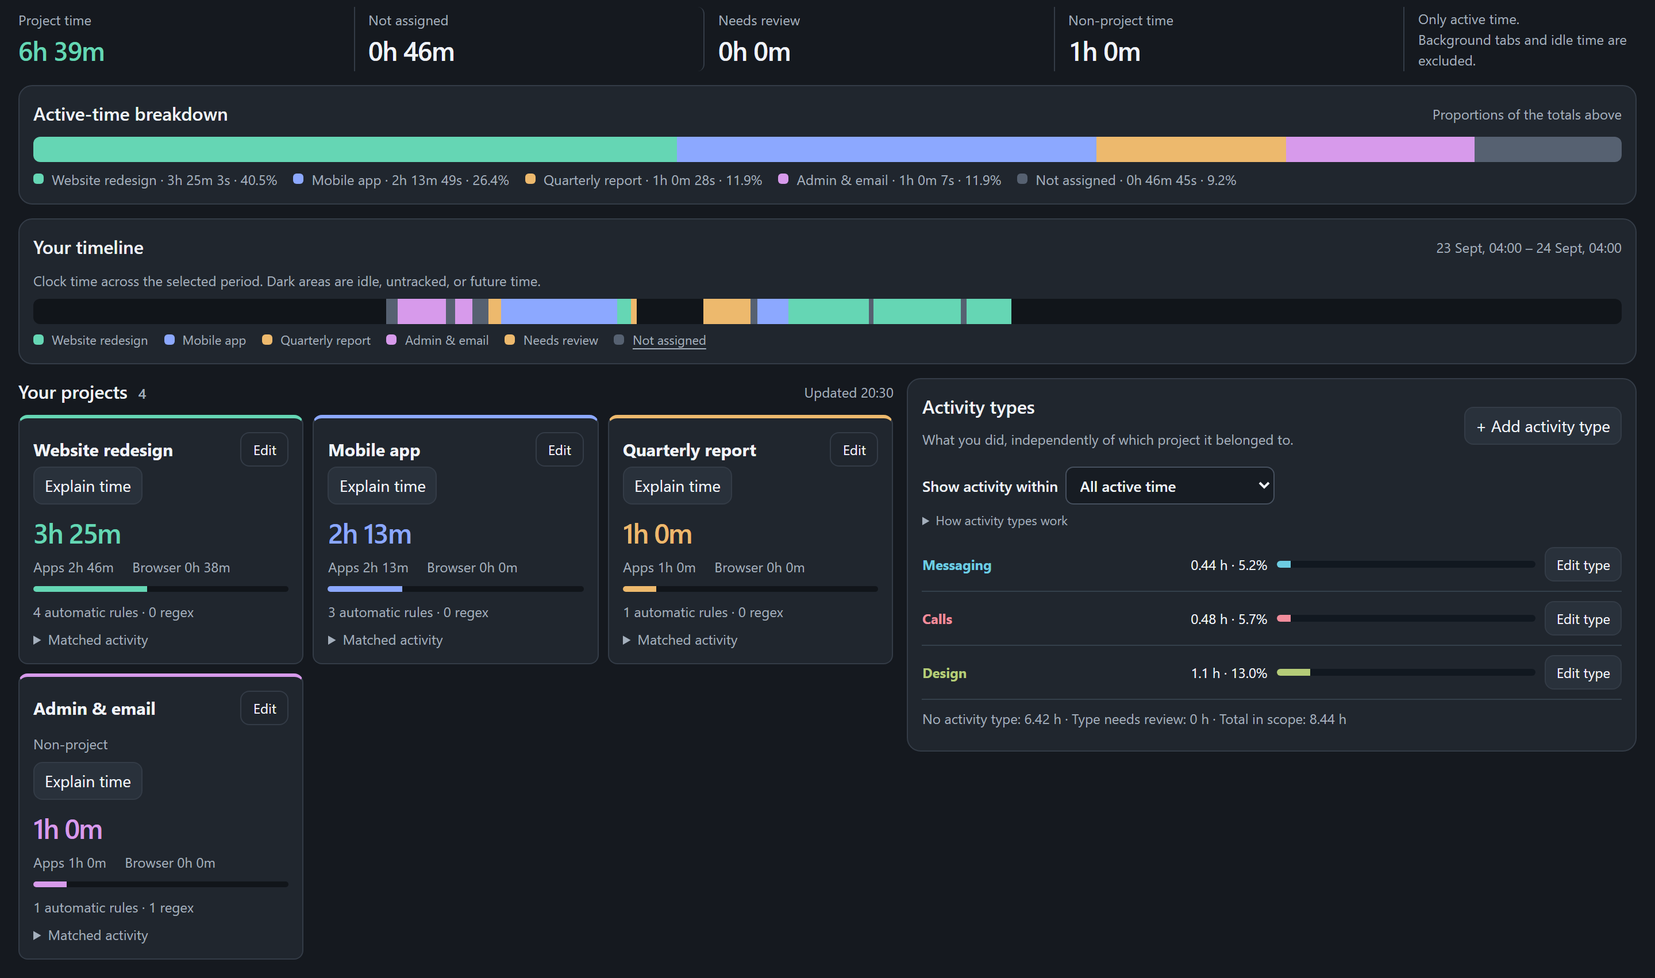
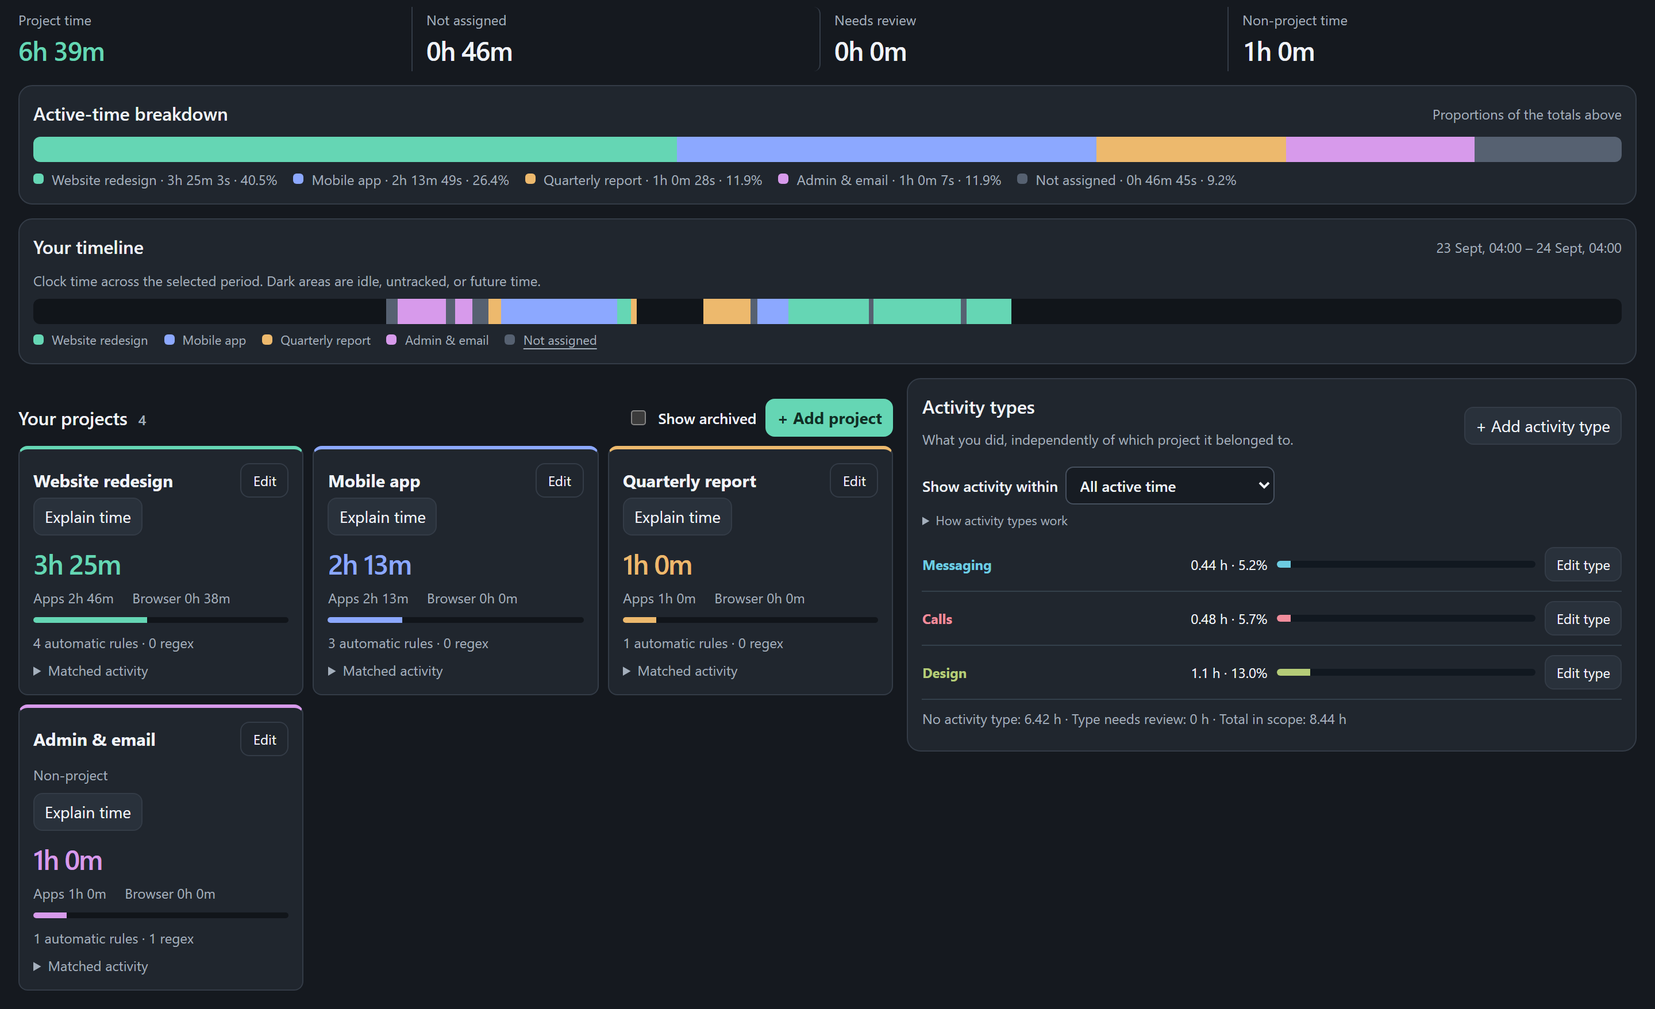
Refresh README images and text for the current interface
Regenerated screenshots show the reorganised page (period bar, report,
history), the chart's layers and report highlight, the editor's project
dates and a new image of the export dialog. The screenshot script reads
settings key by key like the dashboard. Both READMEs describe the report
period and the chart-to-report link, and gain a "Speed" section on using
127.0.0.1 instead of localhost.

diff --git a/README.ru.md b/README.ru.md
@@ -13,20 +13,20 @@ ActivityWatch Projects превращает историю ActivityWatch в по
 
 Я всегда пользовался другим таймтрекером, который более-менее удобно давал возможность сделать фильтр записей за день, чтобы посмотреть, сколько времени было потрачено на проект. В поисках альтернатив мне попадался и ActivityWatch, но на тот момент я не увидел в нём ничего удобного или полезного для себя.
 
-На последнем проекте я решил испробовать какой-нибудь ещё инструмент отслеживания времени и снова наткнулся на ActivityWatch. Как оказалось, из коробки его интерфейс не сильно полезен для подобных целей, но можно настроить свою собственную доску с правилами категоризации и сбора данных!
+На последнем проекте я решил испробовать какой-нибудь ещё инструмент отслеживания времени, так как простая строка поиска на каждый день - крайне неэффективно. И снова наткнулся на ActivityWatch. Как оказалось, из коробки его интерфейс не сильно полезен для подобных целей, но можно настроить свою собственную доску с правилами категоризации и сбора данных.
 
 Что мне очень понравилось:
-- Не нужно вручную заводить какие-то таймеры. Система сама следит за всем, что открывается, и сортирует по правилам, которые я сам и создаю
-- Две системы данных:
+1. Не нужно вручную заводить какие-то таймеры. Система сама следит за всем, что открывается, и сортирует по правилам, которые вы же сами и задали
+2. Две параллельные системы данных:
   - **Проектная** (рабочие задачи). То, что потом можно заносить в таблицу затраченного на работу времени
   - **Активности**. Очень интересно было увидеть, сколько времени я потратил, например, на переписки. Или сколько часов в день уходит на суперполезные созвоны в Zoom или подобных «пожирателях полезного времени»
-- Вся информация хранится локально
-- Дата создания фильтра ни на что не влияет. Все записи в базе данных работают одинаково
+3. Дата создания фильтра ни на что не влияет. Все записи в базе данных работают одинаково
+4. Вся информация хранится локально
 
 ## Что внутри
 
 ### Проекты с первого взгляда
-У каждого проекта своя карточка: цвет, общее время, разбивка на приложения и браузер. Цветной таймлайн показывает, чем и когда я занимался в течение дня.
+У каждого проекта своя карточка со своим цветом и настройками. Всё на странице показывается за выбранный период: день, неделю, месяц или любой диапазон, а кнопка **Today** сразу возвращает к сегодняшнему дню.
 
 ![Итоги, таймлайн, карточки проектов и типы активности](docs/images/overview.png)
 
@@ -34,7 +34,7 @@ ActivityWatch Projects превращает историю ActivityWatch в по
 Правила для сортировки можно задать разными способами:
 
 - по слову в **заголовке окна**: `Blender` или `Квартальный отчёт`;
-- по **адресу сайта**: конкретная доска, репозиторий или документ;
+- по **адресу сайта**: конкретная доска, репозиторий или конкретный домен;
 - по **файлу или папке** в VS Code или Obsidian (если установлены их вотчеры).
 
 Правило можно ограничить одним приложением («только в Telegram») или периодом («этот чат относился к проекту до марта»). Для сложных случаев есть регулярные выражения.
@@ -42,12 +42,12 @@ ActivityWatch Projects превращает историю ActivityWatch в по
 ![Редактор правил проекта](docs/images/rules.png)
 
 ### Ничего не потеряется
-Кнопка **Not assigned** покажет всё, что ещё не разобрано, от самого большого к меньшему. Прямо из строки можно:
+Кнопка **Not assigned** покажет всё, что ещё не разобрано, от самого большого к меньшему по времени. Прямо из строки можно:
 
 - добавить правило в существующий или новый проект;
-- добавить запись в **тип активности** (см. ниже);
+- добавить запись в **тип активности**;
 - назначить только это время вручную, один раз, без правила;
-- разом назначить всё время одного приложения.
+- разом назначить всё время конкретного приложения.
 
 У каждой строки видно, к каким типам активности она уже относится, так что сразу понятно, что осталось неразобранным.
 
@@ -57,12 +57,14 @@ ActivityWatch Projects превращает историю ActivityWatch в по
 Проекты отвечают на вопрос «для кого это было?». Типы активности отвечают на вопрос «чем я занимался?»: переписка, видео, дизайн, код, что угодно на ваш выбор. Они считаются независимо, поэтому один и тот же час может быть и *Клиентом А*, и *Перепиской*, не удлиняя ваш день.
 
 ### Ежедневная нагрузка
-График часов по дням за неделю, месяц или любой период: по одному проекту или по всем сразу, с дневной нормой, 7-дневным трендом и долей непроектного времени. Длинные периоды умещаются на экран как средние по неделям или месяцам, а уже просмотренные дни открываются мгновенно: браузер запоминает завершённые дни, пока вы не поменяете правила.
+График часов по дням за неделю, месяц или любой период: по одному проекту или по всем сразу, с дневной нормой, 7-дневным трендом и долей непроектного времени. Длинные периоды умещаются на экран как средние по неделям или месяцам, а уже просмотренные дни открываются мгновенно: браузер запоминает завершённые дни, пока вы не поменяете правила. Дни, которые показывает отчёт выше, подсвечены; щёлкните по дню или протяните по нескольким, чтобы открыть их в отчёте.
 
 ![График ежедневной нагрузки](docs/images/workload.png)
 
 ### Отчёты и экспорт
 Соберите ровно ту таблицу, которая нужна, и сохраните её как пресет. Строки — дни, недели, месяцы или весь период, при желании по строке на каждый проект или тип активности. Каждая колонка настраивается: время, доля времени, число сессий, самая длинная или средняя сессия, активные дни, начало или конец активности — для проекта, типа активности или всего времени, при желании только внутри другого проекта. «Дата – часы» по одному проекту, «доля созвонов в проекте X по дням» или «сколько раз и как долго я сидел в мессенджерах за неделю» — всё это несколько кликов. Время — в десятичных часах, минутах или ч:мм, при желании с округлением (например, до 6 или 15 минут); даты — в любом формате по шаблону, например `DD.MM.YYYY`, `ddd, D MMMM` или `YYYY-[W]WW`. Скачайте результат в **CSV**, **TSV**, **Markdown** или **JSON** либо скопируйте прямо в таблицу. Встроенные пресеты — отправная точка; ваши собственные хранятся в ActivityWatch. В экспорт попадают только цифры по времени, без заголовков окон и адресов.
+
+![Экспорт: конструктор колонок и живой предпросмотр](docs/images/export.png)
 
 ### Можно смело экспериментировать
 Перед сохранением любое изменение показывает цифры **«до → после»**. Последние 20 версий настроек хранятся, и любую из них можно вернуть в один клик.
@@ -92,6 +94,12 @@ ActivityWatch Projects превращает историю ActivityWatch в по
 4. Нажмите **+ Add project**, задайте имя и правило, и история начнёт заполняться.
 
 Проверено на Windows с ActivityWatch 0.14. На других платформах может работать, но не проверялось.
+
+## Скорость работы
+
+Открывайте ActivityWatch по адресу `http://127.0.0.1:5600`, а не `localhost:5600`. В Windows `localhost` сначала пробует IPv6, а ActivityWatch слушает только IPv4, поэтому каждый запрос теряет около 200 мс. Для панели, которая делает несколько запросов подряд, это секунды: первая загрузка отчёта ускоряется примерно с 3,3 до 0,3 с. Так быстрее работает и весь интерфейс ActivityWatch.
+
+Настройки вида (период графика, фильтры, параметры экспорта) и кэш графика браузер хранит отдельно для каждого адреса, поэтому на новом адресе они сначала будут пустыми. Проекты, правила и пресеты хранятся в ActivityWatch и не зависят от адреса.
 
 ## Для разработчиков
 

diff --git a/README.md b/README.md
@@ -25,7 +25,7 @@ What I really liked:
 ## What's inside
 
 ### Projects at a glance
-Each project has its own card: color, total time, and a split between apps and browser. A colored timeline shows what I worked on and when during the day.
+Each project has its own card: color, total time, and a split between apps and browser. A colored timeline shows what I worked on and when during the day. Everything on the page covers the period you pick: a day, a week, a month or any range, and **Today** brings you straight back.
 
 ![Totals, timeline, project cards and activity types](docs/images/overview.png)
 
@@ -56,12 +56,14 @@ Each row shows which activity types it already belongs to, so it's clear at once
 Projects answer "who was this for?". Activity types answer "what was I doing?": messaging, video, design, coding, whatever you choose. They're counted independently, so the same hour can be both *Client A* and *Messaging* without making your day any longer.
 
 ### Daily workload
-Hours per day for a week, a month or any period: for one project or all of them at once, with a daily target, a 7-day trend and the share of non-project time. Long periods fit the screen as weekly or monthly averages, and days you have already looked at open instantly: the browser remembers finished days until you change your rules.
+Hours per day for a week, a month or any period: for one project or all of them at once, with a daily target, a 7-day trend and the share of non-project time. Long periods fit the screen as weekly or monthly averages, and days you have already looked at open instantly: the browser remembers finished days until you change your rules. The days the report above shows are highlighted; click a day, or drag across several, to open them in the report.
 
 ![Daily workload chart](docs/images/workload.png)
 
 ### Reports and export
 Build exactly the table you need and keep it as a preset. Rows are days, weeks, months or the whole range, optionally one per project or activity type. Each column is something you pick: time, share of time, number of sessions, longest or average session, active days, first or last activity — for a project, an activity type or all your time, optionally only within another project. So "date – hours" for one project, "share of calls in project X per day" or "how often and how long I was in messengers last week" are all a few clicks. Durations can be decimal hours, minutes or h:mm, optionally rounded (to 6 or 15 minutes, for instance); dates follow any pattern you type, such as `DD.MM.YYYY`, `ddd, D MMM` or `YYYY-[W]WW`. Download as **CSV**, **TSV**, **Markdown** or **JSON**, or copy straight into a spreadsheet. Built-in presets give a starting point; your own presets are saved in ActivityWatch. Exports contain only time figures, no window titles or addresses.
+
+![Export dialog with a column builder and a live preview](docs/images/export.png)
 
 ### Safe to experiment
 Before saving, every change shows the numbers **"before → after"**. The last 20 versions of your settings are kept, and any of them can be restored in one click.
@@ -91,6 +93,12 @@ You need [ActivityWatch](https://activitywatch.net/) running with its window and
 4. Click **+ Add project**, give it a name and a rule, and your history starts filling in.
 
 Tested on Windows with ActivityWatch 0.14. Other platforms may work but haven't been verified.
+
+## Speed
+
+Open ActivityWatch at `http://127.0.0.1:5600` rather than `localhost:5600`. On Windows, `localhost` tries IPv6 first while ActivityWatch listens only on IPv4, so every request loses about 200 ms. For a dashboard that makes several requests in a row, that adds up to seconds: the first report load drops from about 3.3 s to 0.3 s. The rest of the ActivityWatch interface gets faster too.
+
+The browser keeps view preferences (chart range, filters, export options) and the chart cache separately for each address, so they start empty on the new one. Projects, rules and presets are stored in ActivityWatch and don't depend on the address.
 
 ## For developers
 
